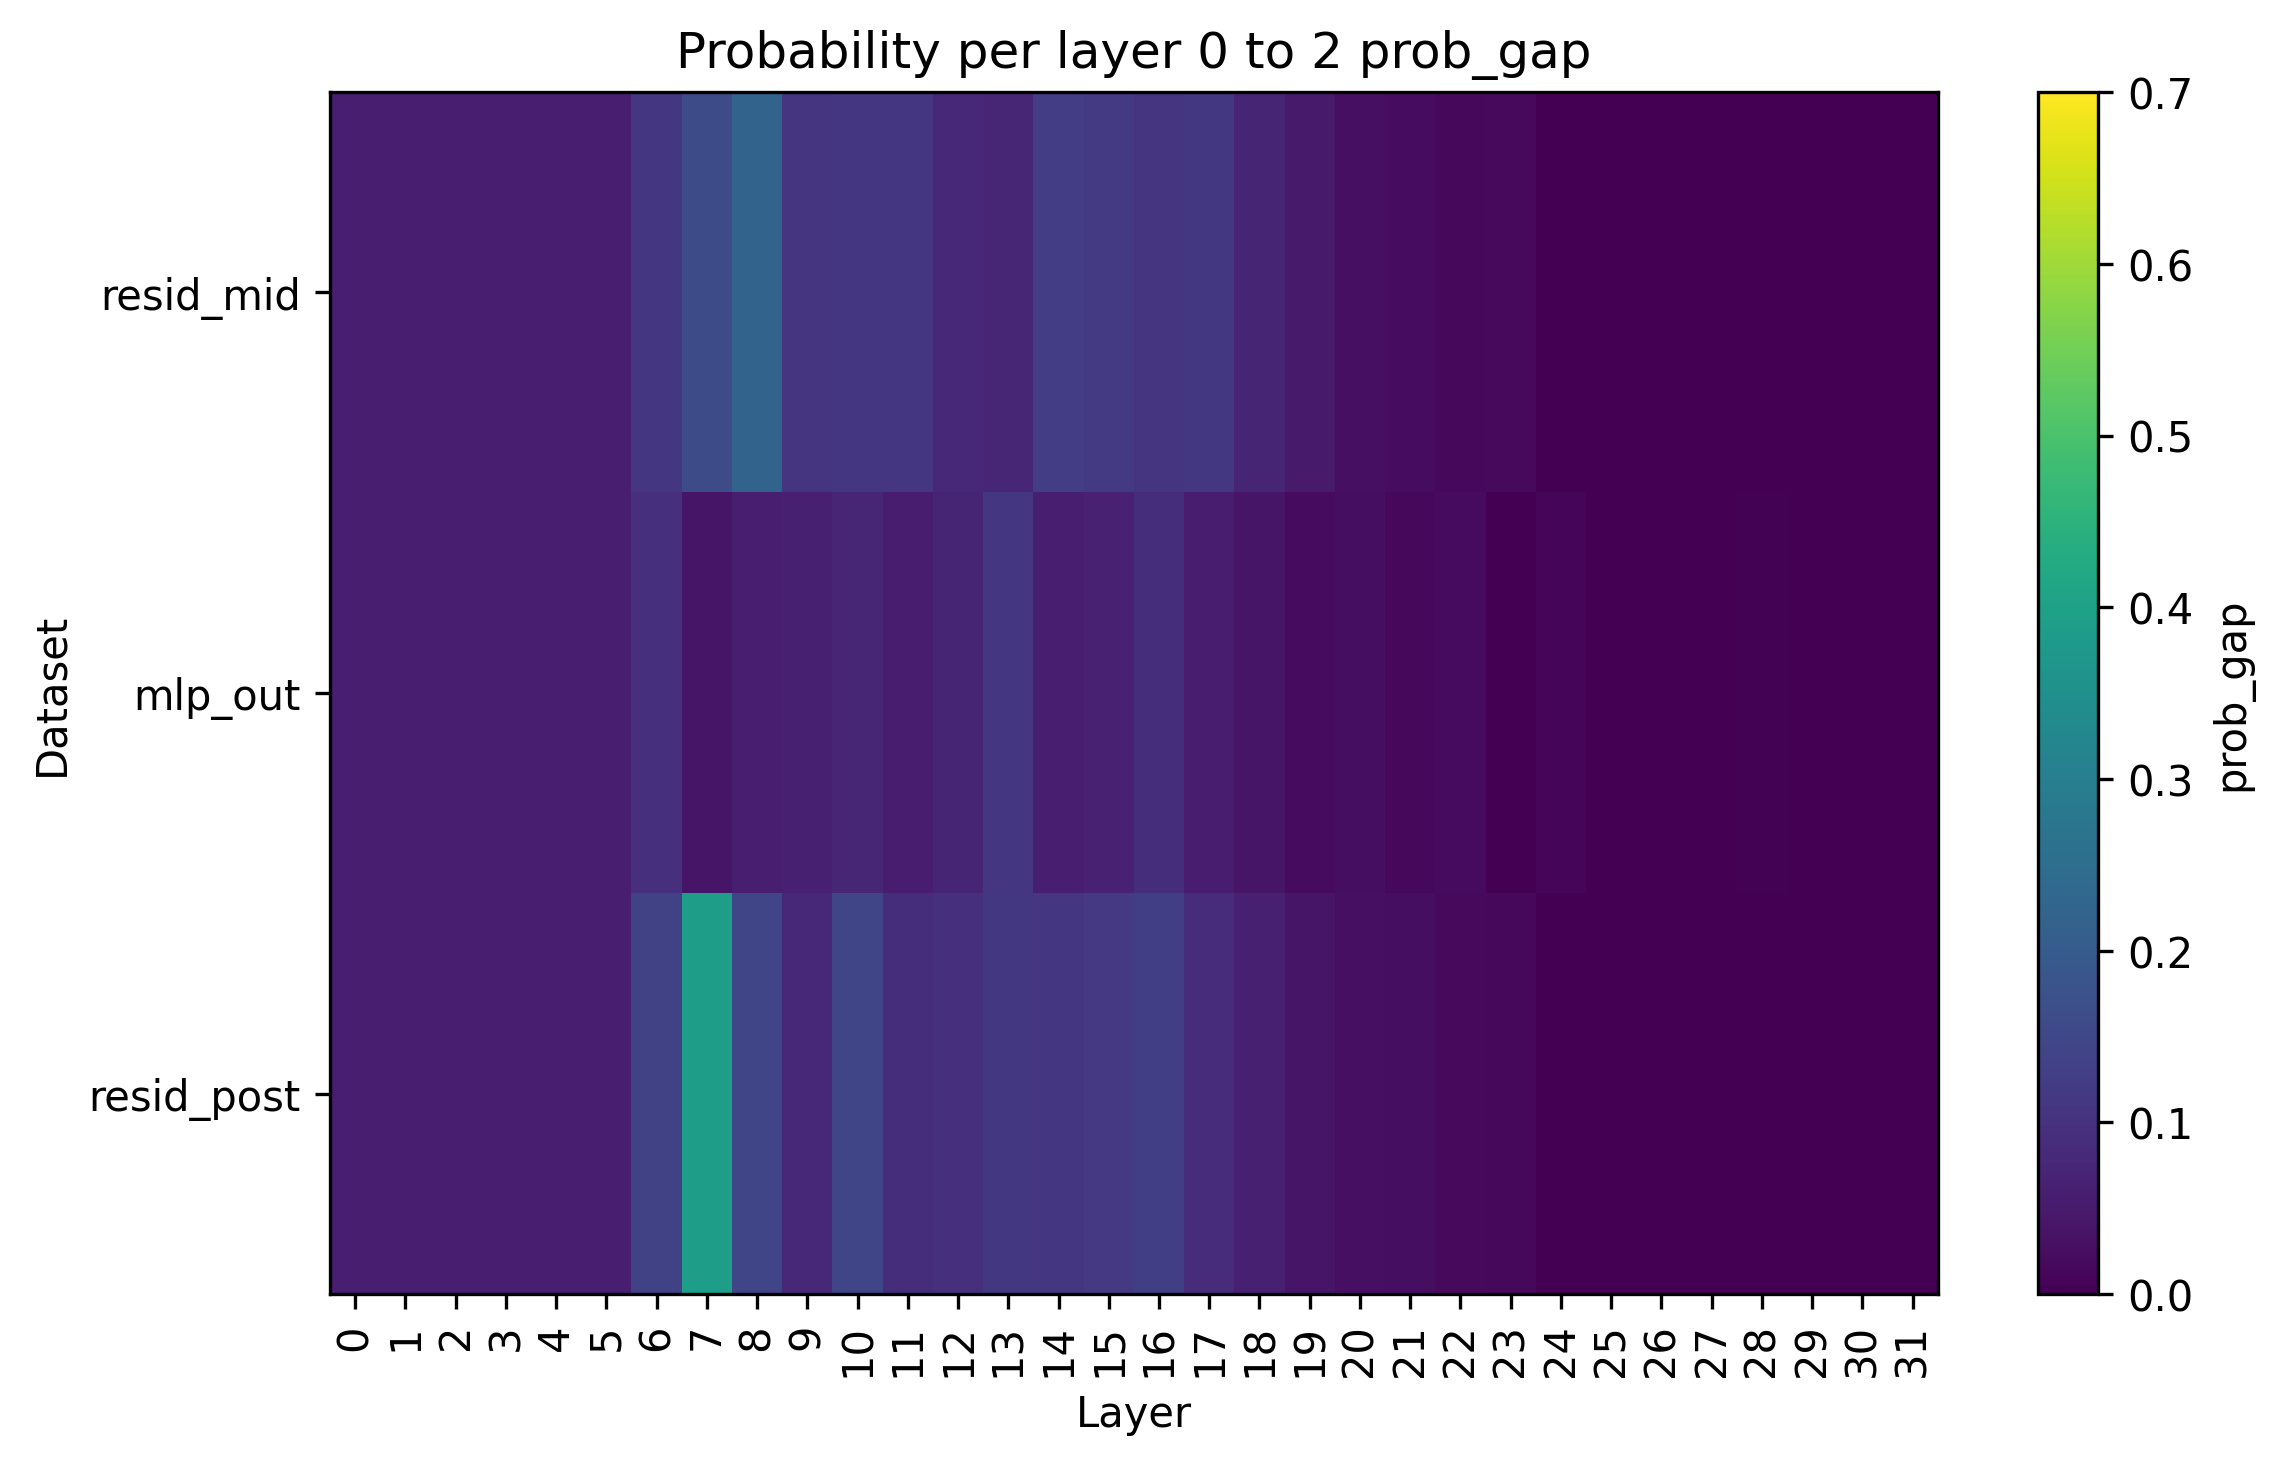
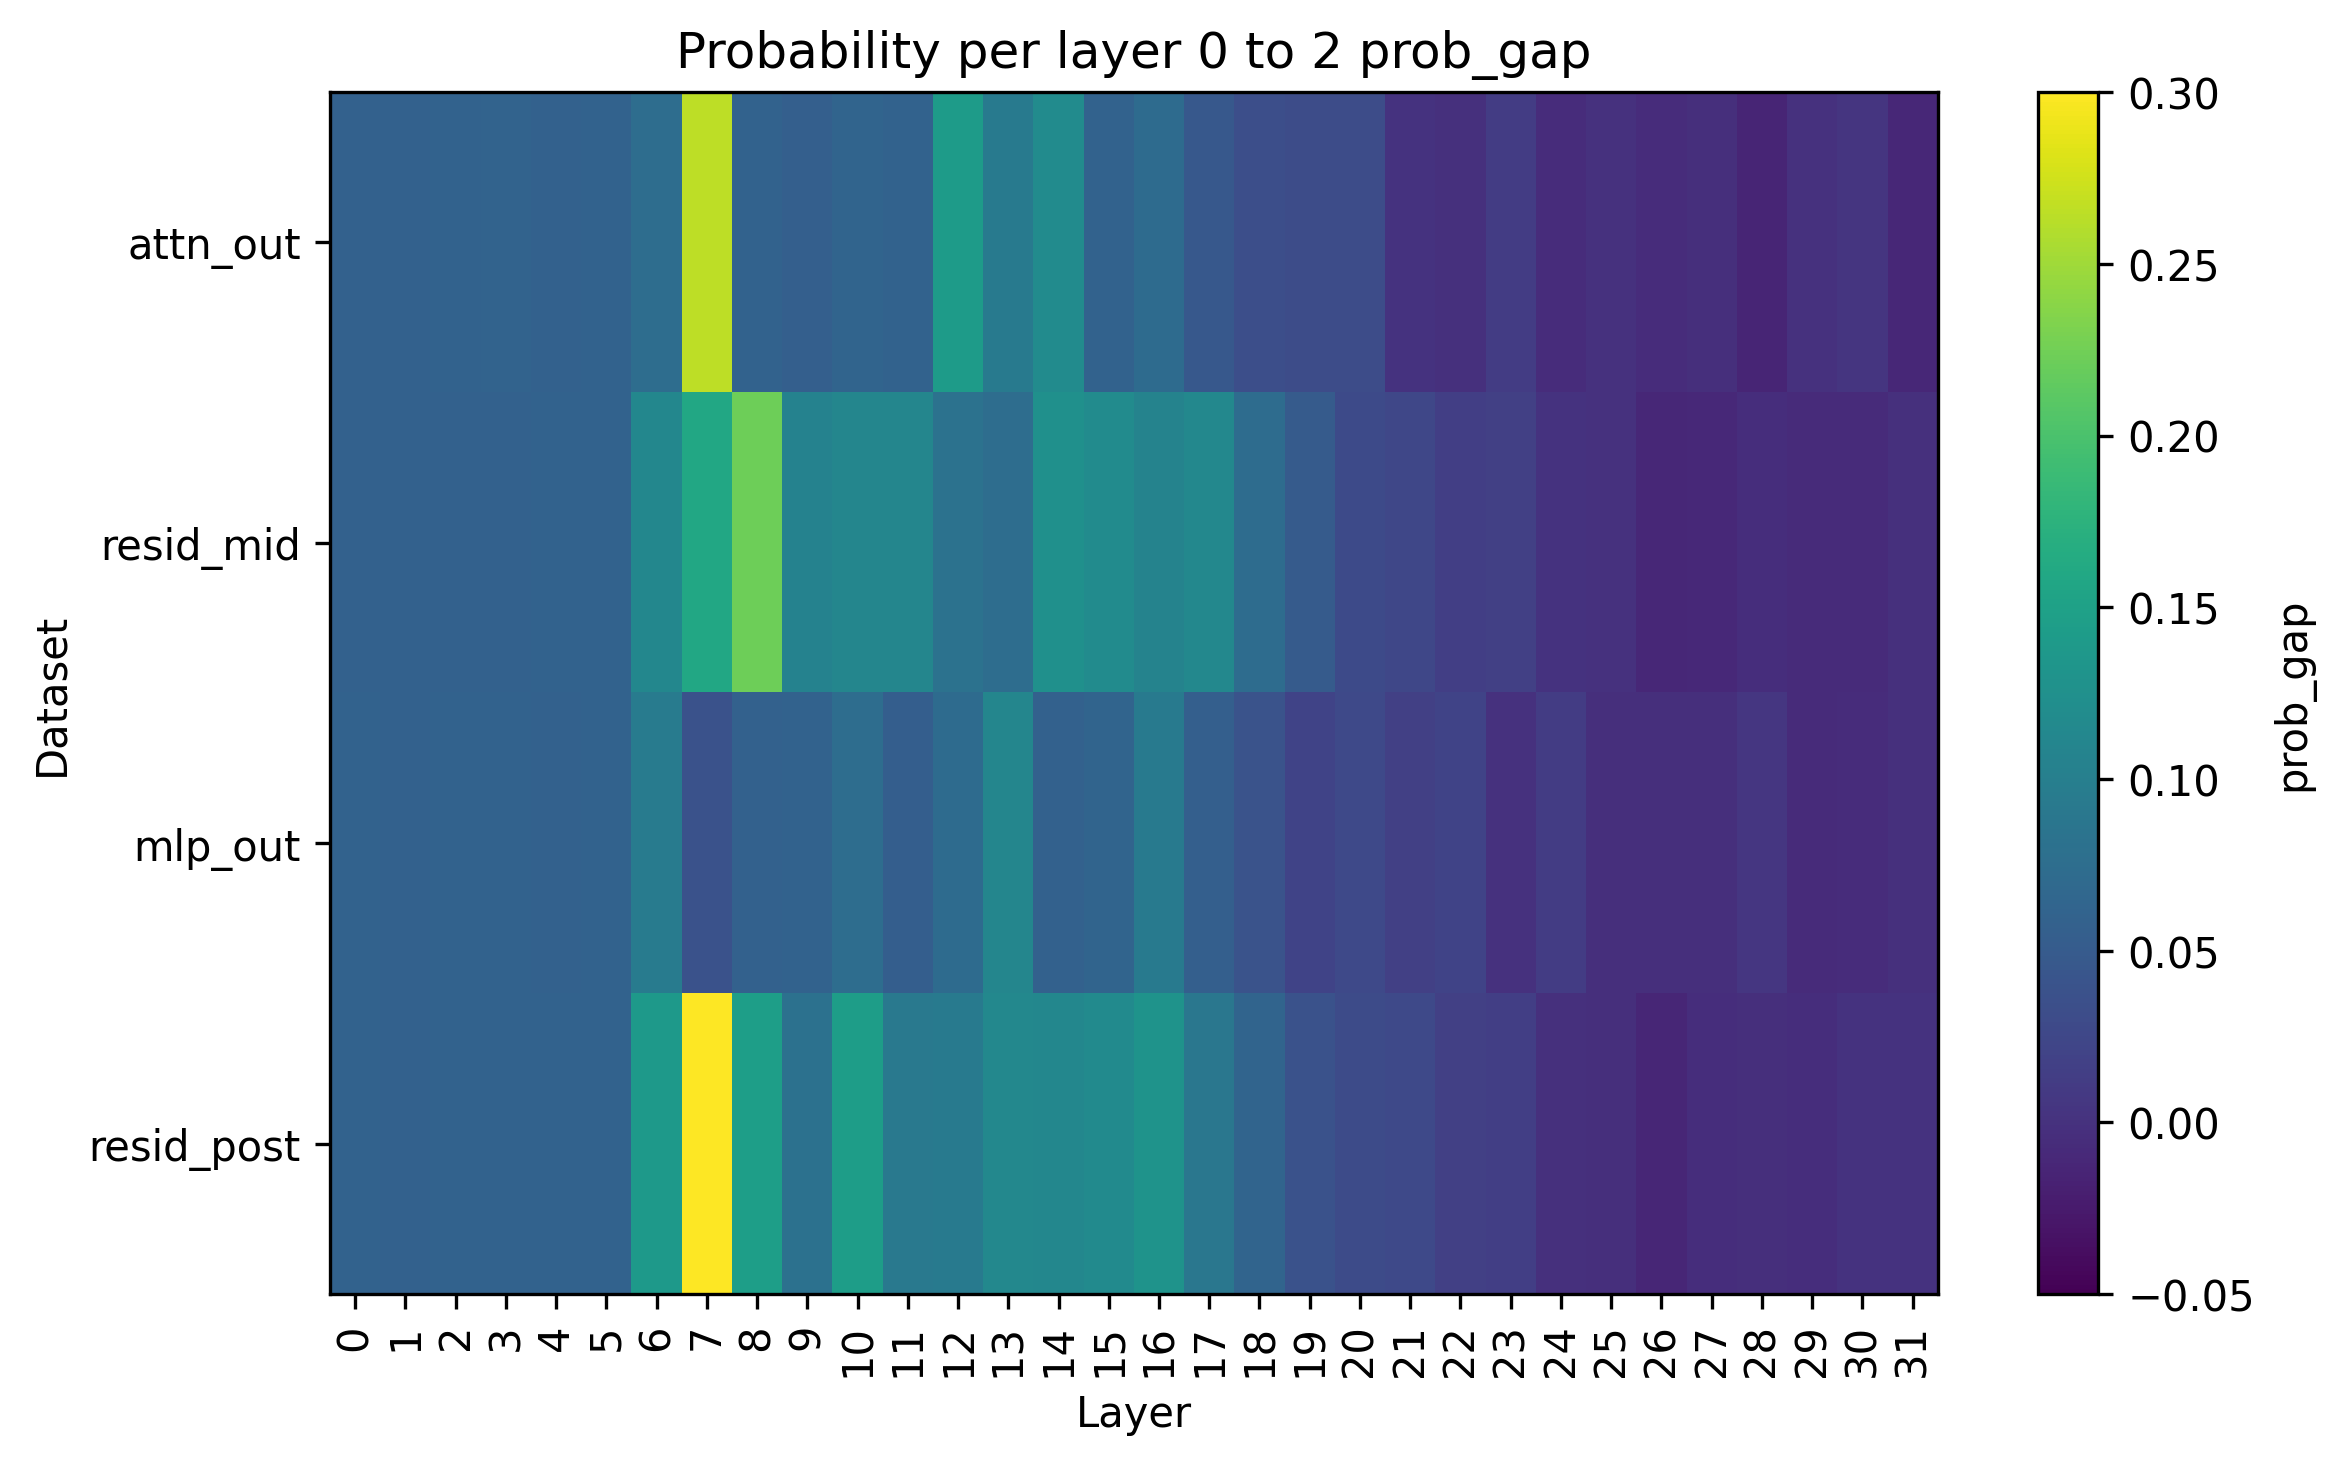
soep

diff --git a/plotting.py b/plotting.py
@@ -364,14 +364,15 @@ for id in range(3):
         # path11 = f"figures/onlycorrect_letters_probe_tokenizer_steering_100.0/{base}/avg_gap_alpha_100.0.csv"
         # path12 = f"figures/onlycorrect_letters_probe_common_steering_100.0/{base}/avg_gap_alpha_100.0.csv"
 
+        path0 = f"figures/old_data_attn_out_100.0/{base}/avg_gap_alpha_100.0.csv"
         path1 = f"figures/old_data_resid_mid_100.0/{base}/avg_gap_alpha_100.0.csv"
         path2 = f"figures/old_data_mlp_out_100.0/{base}/avg_gap_alpha_100.0.csv"
         path3 = f"figures/old_data_resid_post_100.0/{base}/avg_gap_alpha_100.0.csv"
 
-        file_paths = [path1, path2, path3]
-        labels = ["resid_mid", "mlp_out", "resid_post"]
-        metric = "prob_contr"
-        # metric = "prob_gap"
+        file_paths = [path0, path1, path2, path3]
+        labels = ["attn_out", "resid_mid", "mlp_out", "resid_post"]
+        # metric = "prob_contr"
+        metric = "prob_gap"
         save_path = f"figures/steering_heatmaps_compare_location/{base}_{metric}.png"
 
 
